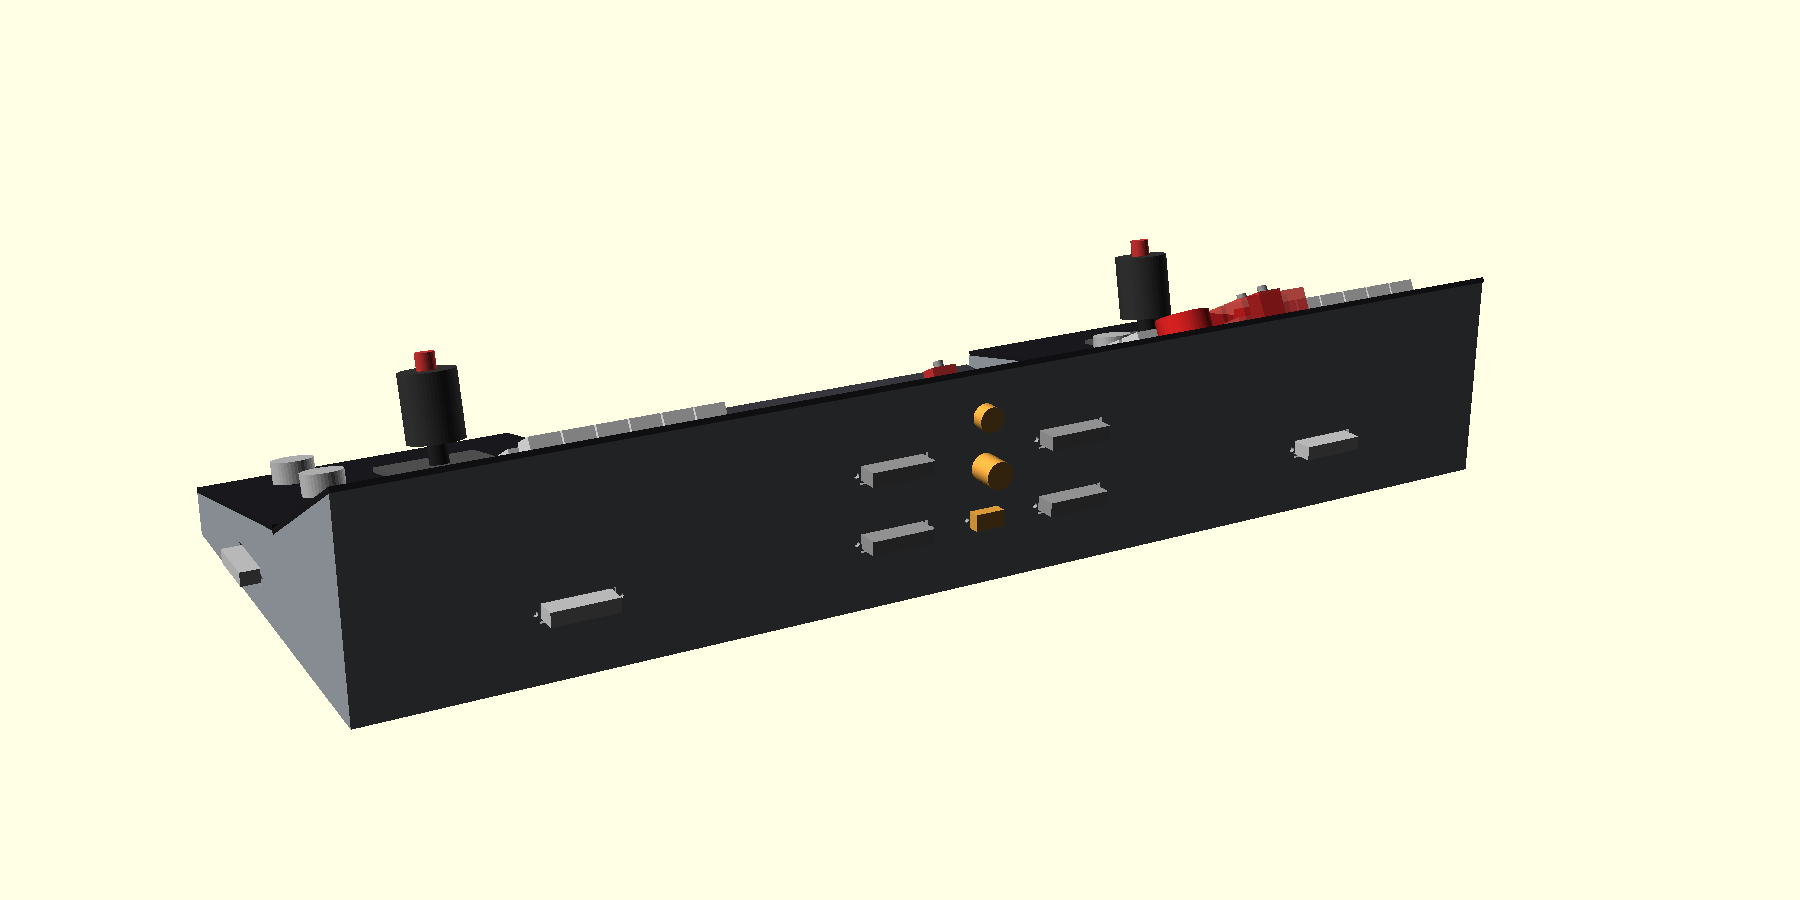
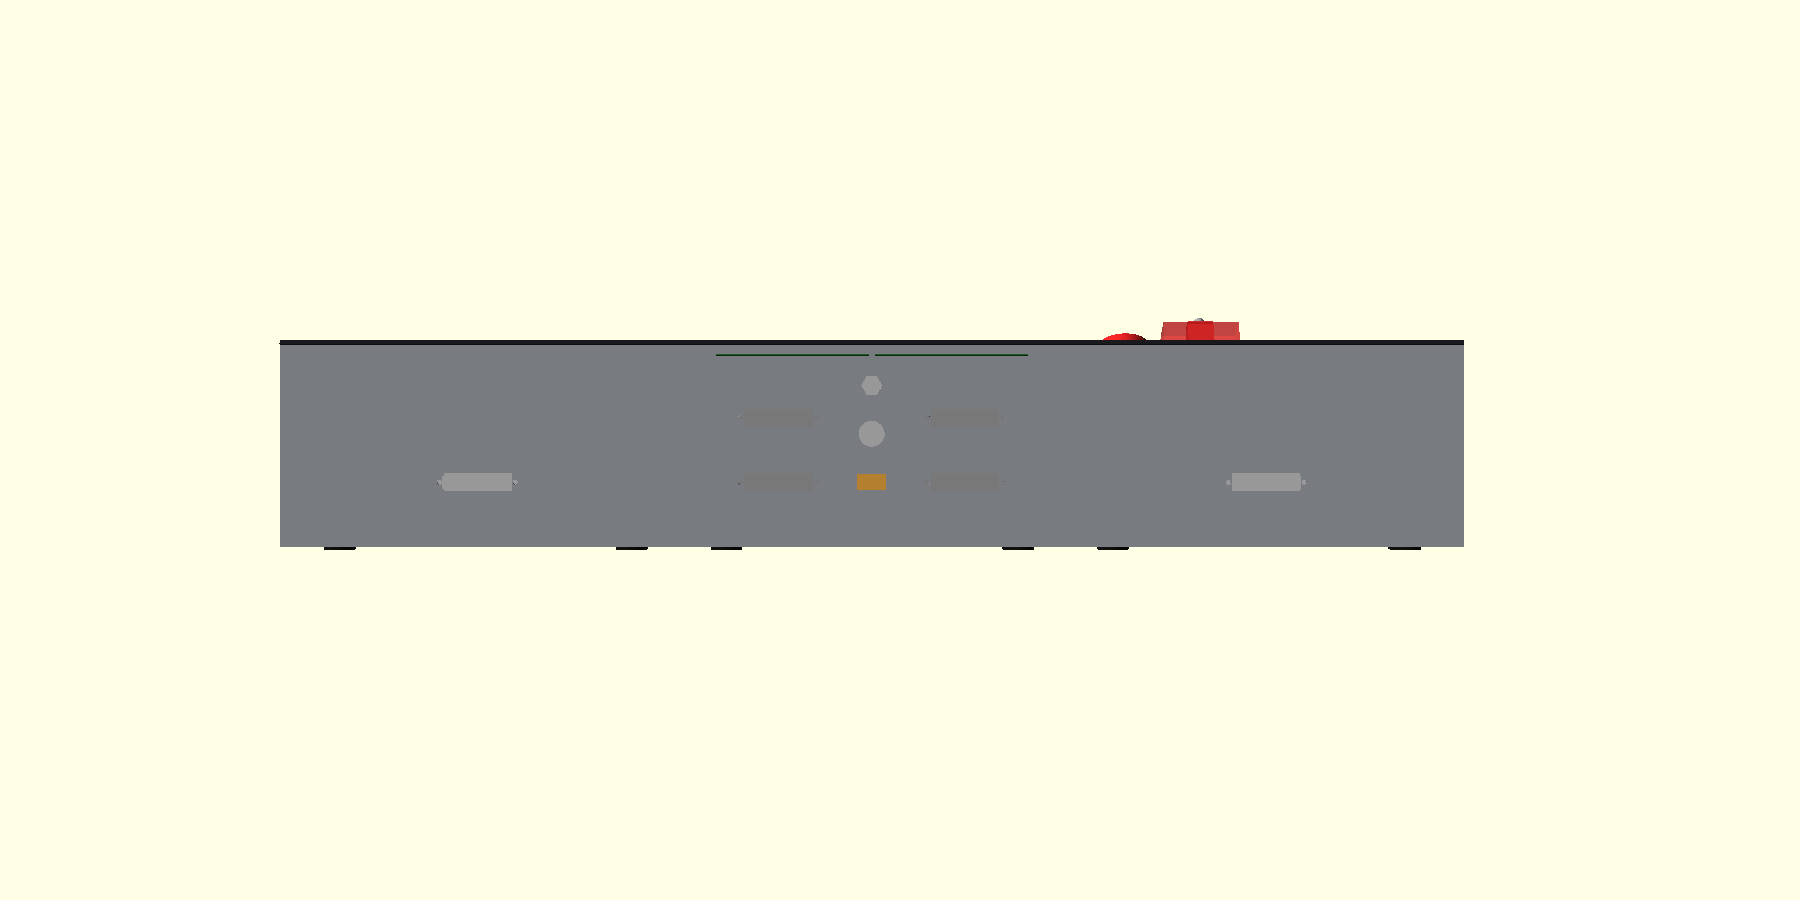
Regenerate the renders from the current model
The renders now show the two TFT windows, the horizontal fuel bars and the
datasheet cutouts for the DC jack and fuse holder; only the USB extension is
still an orange placeholder. The camera settings move into hardware/cad/render.sh
(make renders), docs/img is refreshed with make site, and the mockup README no
longer says the pictures are out of date.

Changed region(s): [[0.0933, 0.2489, 0.84, 0.8089]]

diff --git a/hardware/mockup/README.md b/hardware/mockup/README.md
@@ -17,7 +17,7 @@ contents of each piece are in [controls.md](../../docs/design/controls.md); the 
 | `seat-view.png` | what you see from a seat |
 | `wing-cutaway.png`, `strip-cutaway.png` | the shells cut open: ballast, feet, jacks, wall thickness |
 
-The renders were last generated before the DC jack and fuse holder cutouts were corrected, so the middle strip's back wall differs slightly.
+Regenerated 2026-10-21 from the current model: the two TFT windows, the horizontal fuel bars, and the DC jack and fuse holder cutouts from their datasheets. The USB extension's cutout is still an orange placeholder (see the rear view).
 
 ## Pieces
 
@@ -34,9 +34,12 @@ The console is 735 mm wide with a 345 mm open middle, designed around a 12.2 in 
 ## Regenerating
 
 ```
-xvfb-run -a openscad -o out.png --imgsize=1800,900 --projection=p --camera=cx,cy,cz,rx,ry,rz,dist hardware/cad/console.scad
+make renders            # rewrites every picture in renders/ (needs openscad and xvfb-run)
+make site               # then copies iso.png and seat-view.png to docs/img/ for the Pages landing page
 openscad -D flat=true -D mod=0 -o left_wing.svg hardware/cad/console.scad    # 1:1 template of piece 0
 ```
+
+The cameras for each picture are in [`hardware/cad/render.sh`](../cad/render.sh).
 
 There is no one-step build script. Part proxies (keycaps, knobs, toggles, grips) are simple blocks, not real models.
 The USB extension's cutout is still an orange placeholder.

diff --git a/docs/README.md b/docs/README.md
@@ -71,4 +71,5 @@ Marked **generated** at the top. Edit the data, not the output, then run `make` 
 |---|---|---|
 | `docs/pinout.html`, `hardware/electronics/wiring/wiring.md`, `pin-map.md`, `diagrams/*.svg`, `firmware/ksp/include/pins.h` | `tools/gen_wiring.py` | `hardware/electronics/pinmap.json` |
 | `hardware/sourcing/parts.md` | `tools/parts.py budget --md` | `parts-shortlist.json`, `amazon-items.json` |
+| `hardware/mockup/renders/*.png` | `make renders` | `hardware/cad/console.scad` |
 | `docs/img/*.png` | `make site` | `hardware/mockup/renders/` |
